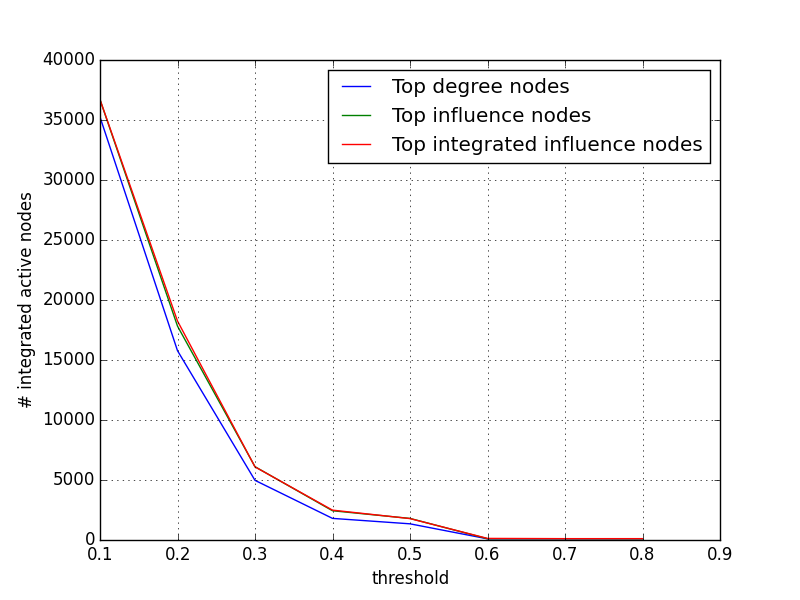
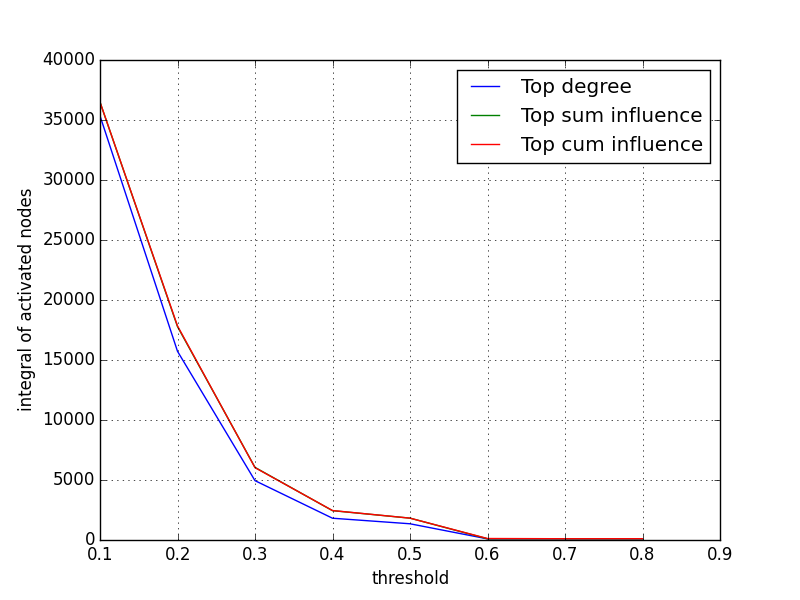
further modifications to code

diff --git a/ltm/test.py b/ltm/test.py
@@ -6,32 +6,39 @@ import matplotlib.pyplot as plt
 # Here neighbors are nodes that pointing the current node
 adjlist = {}
 
-# Read edge list and generate the graph
-with open(sys.argv[1], 'r') as f:
-	if len(sys.argv) > 2 and sys.argv[2] == '-d':
-		directed = True
-	else:
-		directed = False
-	for line in f:
-		src, dst = line.split()
-		if src not in adjlist:
-			adjlist[src] = {}
-		adjlist[src][dst] = 0
-		if not directed:
-			if dst not in adjlist:
-				adjlist[dst] = {}
-			adjlist[dst][src] = 0
+# # Read edge list and generate the graph
+# with open(sys.argv[1], 'r') as f:
+# 	if len(sys.argv) > 2 and sys.argv[2] == '-d':
+# 		directed = True
+# 	else:
+# 		directed = False
+# 	for line in f:
+# 		src, dst = line.split()
+# 		if src not in adjlist:
+# 			adjlist[src] = {}
+# 		adjlist[src][dst] = 0
+# 		if not directed:
+# 			if dst not in adjlist:
+# 				adjlist[dst] = {}
+# 			adjlist[dst][src] = 0
 
-# Normalize influence
-for node in adjlist:
-	total = 0
-	neighbors = set(adjlist[node].keys())
-	for neighbor in neighbors:
-		adjlist[node][neighbor] = len(neighbors & set(adjlist[neighbor].keys()))
-		total += adjlist[node][neighbor]
-	if total > 0:
-		for neighbor in adjlist[node]:
-			adjlist[node][neighbor] /= float(total)
+# # Normalize influence
+# for node in adjlist:
+# 	total = 0
+# 	neighbors = set(adjlist[node].keys())
+# 	for neighbor in neighbors:
+# 		adjlist[node][neighbor] = len(neighbors & set(adjlist[neighbor].keys()))
+# 		total += adjlist[node][neighbor]
+# 	if total > 0:
+# 		for neighbor in adjlist[node]:
+# 			adjlist[node][neighbor] /= float(total)
+
+with open(sys.argv[1], 'r') as f:
+	for line in f:
+		src, dst, weight = line.split(',')
+		if dst not in adjlist:
+			adjlist[dst] = {}
+		adjlist[dst][src] = float(weight)
 
 # Default parameters configuration
 influencers = sorted([(len(adjlist[node]), node) for node in adjlist], reverse=True)
@@ -47,11 +54,10 @@ for node in adjlist:
 defaultTime = 100
 defaultInfluencers = 10
 
-fig = plt.figure(1)
-fig.subplots_adjust(hspace=.3)
+# fig = plt.figure(1)
+# fig.subplots_adjust(hspace=.3)
 
 # Different thresholds
-plt.subplot(221)
 samples = map(lambda x: x * 0.1, range(1, 6))
 for val in samples:
 	thresholds = {}
@@ -65,10 +71,9 @@ plt.xlabel('time')
 plt.ylabel('# active nodes')
 plt.legend()
 plt.grid(True)
-plt.title('(a)')
+plt.show()
 
 # Different activeness
-plt.subplot(222)
 samples = xrange(2, 12, 2)
 for val in samples:
 	activeness = {}
@@ -82,10 +87,9 @@ plt.xlabel('time')
 plt.ylabel('# active nodes')
 plt.legend()
 plt.grid(True)
-plt.title('(b)')
+plt.show()
 
 # Different number of influencers
-plt.subplot(223)
 samples = xrange(5, 35, 5)
 for val in samples:
 	ltm = model.LTM(adjlist, defaultThresholds, defaultActiveness, defaultTriggers)
@@ -96,10 +100,9 @@ plt.xlabel('time')
 plt.ylabel('# active nodes')
 plt.legend()
 plt.grid(True)
-plt.title('(c)')
+plt.show()
 
 # Different number of influencers
-plt.subplot(224)
 samples = range(1, 5)
 for val in samples:
 	triggers = {}
@@ -109,12 +112,10 @@ for val in samples:
 	activeNodes = ltm.simulate(defaultTime, set(map(lambda x: x[1], influencers[:defaultInfluencers])))
 	plt.plot(activeNodes, label=('activation bound = %d' % val))
 
-plt.axis([0, 80, 0, 350])
+plt.axis([0, 90, 0, 4000])
 plt.xlabel('time')
 plt.ylabel('# active nodes')
 plt.legend()
 plt.grid(True)
-plt.title('(d)')
-
 plt.show()
 

diff --git a/ltm/compare.py b/ltm/compare.py
@@ -67,9 +67,9 @@ def compare(adjlist, threshold, trigger, low, high, size, times, debug=True):
 		print sum(influence)
 		print sum(integratedInfluence)
 
-		plt.plot(degree, label=('Top degree nodes'))
-		plt.plot(influence, label=('Top influence nodes'))
-		plt.plot(integratedInfluence, label=('Top integrated influence nodes'))
+		plt.plot(degree, label=('Top degree'))
+		plt.plot(influence, label=('Top sum influence'))
+		plt.plot(integratedInfluence, label=('Top cum influence'))
 		plt.xlabel('time')
 		plt.ylabel('# active nodes')
 		plt.legend()
@@ -78,23 +78,23 @@ def compare(adjlist, threshold, trigger, low, high, size, times, debug=True):
 	else:
 		return (sum(degree), sum(influence), sum(integratedInfluence))
 
-# compare(adjlist, 0.3, 1, 5, 15, 50, 10)
+# compare(adjlist, 0.3, 1, 5, 15, 10, 10)
 
 # thresholds = map(lambda x: x * 0.1, range(1, 9))
 # degree = []
 # influence = []
 # integratedInfluence = []
 # for threshold in thresholds:
-# 	res = compare(adjlist, threshold, 1, 5, 15, 10, 10, debug=False)
+# 	res = compare(adjlist, threshold, 1, 5, 15, 50, 10, debug=False)
 # 	degree.append(res[0])
 # 	influence.append(res[1])
 # 	integratedInfluence.append(res[2])
 
-# plt.plot(thresholds, degree, label=('Top degree nodes'))
-# plt.plot(thresholds, influence, label=('Top influence nodes'))
-# plt.plot(thresholds, integratedInfluence, label=('Top integrated influence nodes'))
+# plt.plot(thresholds, degree, label=('Top degree'))
+# plt.plot(thresholds, influence, label=('Top sum influence'))
+# plt.plot(thresholds, integratedInfluence, label=('Top cum influence'))
 # plt.xlabel('threshold')
-# plt.ylabel('# integrated active nodes')
+# plt.ylabel('integral of activated nodes')
 # plt.legend()
 # plt.grid(True)
 # plt.show()
@@ -104,16 +104,16 @@ degree = []
 influence = []
 integratedInfluence = []
 for size in initset_sizes:
-	res = compare(adjlist, 0.2, 1, 5, 15, size, 10, debug=False)
+	res = compare(adjlist, 0.5, 1, 5, 15, size, 10, debug=False)
 	degree.append(res[0])
 	influence.append(res[1])
 	integratedInfluence.append(res[2])
 
-plt.plot(initset_sizes, degree, label=('Top degree nodes'))
-plt.plot(initset_sizes, influence, label=('Top influence nodes'))
-plt.plot(initset_sizes, integratedInfluence, label=('Top integrated influence nodes'))
+plt.plot(initset_sizes, degree, label=('Top degree'))
+plt.plot(initset_sizes, influence, label=('Top sum influence'))
+plt.plot(initset_sizes, integratedInfluence, label=('Top cum influence'))
 plt.xlabel('init set size')
-plt.ylabel('# integrated active nodes')
+plt.ylabel('integral of activated nodes')
 plt.legend(loc='upper left')
 plt.grid(True)
 plt.show()
